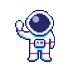
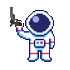
added even more player options

Changed region(s): [[0.1429, 0.0857, 0.3429, 0.4]]

diff --git a/client/images/playerAssets/index.js b/client/images/playerAssets/index.js
@@ -4,6 +4,9 @@ import ship3 from './newshipsmall.png';
 import ship4 from './ship4.png';
 import ship5 from './ship5.png';
 import ship6 from './ship6.png';
+import ship7 from './ship7.png';
+import ship8 from './ship8.png';
+import ship9 from './ship9.png';
 
 
-export default [ship, ship2, ship3, ship4, ship5, ship6];
+export default [ship, ship2, ship3, ship4, ship5, ship6, ship7, ship8, ship9];
